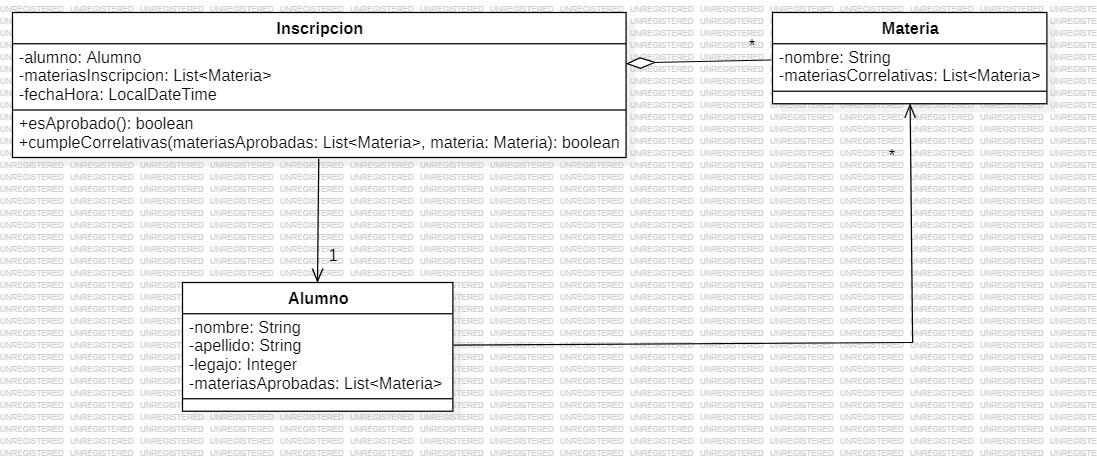
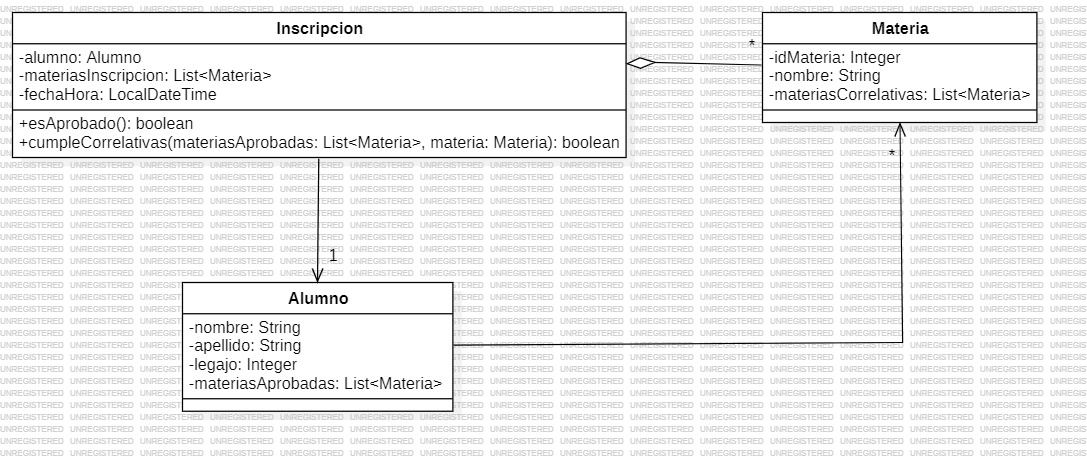
Agrego idMateria, tests funcionando correctamente

Changed region(s): [[0.0, 0.0, 1.0, 1.0], [0.2429, 0.6377, 0.3339, 0.6681], [0.1518, 0.0, 0.2429, 0.0304]]

diff --git a/src/test/java/domain/inscripciones/InscripcionTest.java b/src/test/java/domain/inscripciones/InscripcionTest.java
@@ -15,9 +15,9 @@ class InscripcionTest {
     @DisplayName("Probamos que cumple las correlativas")
     public void esInscripto() {
         // Creo las materias
-        Materia syo = new Materia("syo");
-        Materia ads = new Materia("ads");
-        Materia algoritmos = new Materia("algoritmos y estructuras de datos");
+        Materia syo = new Materia(1,"syo");
+        Materia algoritmos = new Materia(2,"algoritmos y estructuras de datos");
+        Materia ads = new Materia(3,"ads");
 
         // Defino las correlativas de ads
         List<Materia> correlativasAds = new ArrayList<>();
@@ -47,9 +47,9 @@ class InscripcionTest {
     @DisplayName("Probamos que no cumple las correlativas")
     public void noEsInscripto() {
         // Creo las materias
-        Materia syo = new Materia("syo");
-        Materia ads = new Materia("ads");
-        Materia algoritmos = new Materia("algoritmos y estructuras de datos");
+        Materia syo = new Materia(1,"syo");
+        Materia algoritmos = new Materia(2,"algoritmos y estructuras de datos");
+        Materia ads = new Materia(3,"ads");
 
         // Defino las correlativas de ads
         List<Materia> correlativasAds = new ArrayList<>();

diff --git a/src/main/java/domain/inscripciones/Materia.java b/src/main/java/domain/inscripciones/Materia.java
@@ -9,10 +9,12 @@ import java.util.List;
 @Getter
 @Setter
 public class Materia {
+    private Integer idMateria;
     private String nombre;
     private List<Materia> materiasCorrelativas;
 
-    public Materia(String nombre) {
+    public Materia(Integer idMateria, String nombre) {
+        this.idMateria = idMateria;
         this.nombre = nombre;
         this.materiasCorrelativas = new ArrayList<>();
     }
